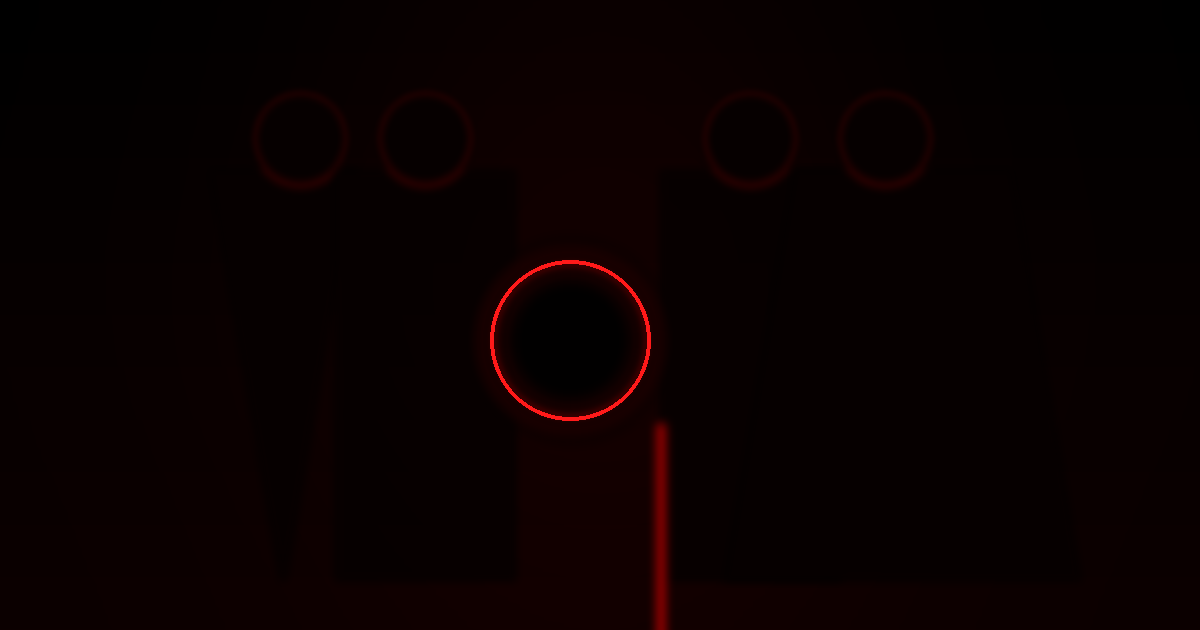
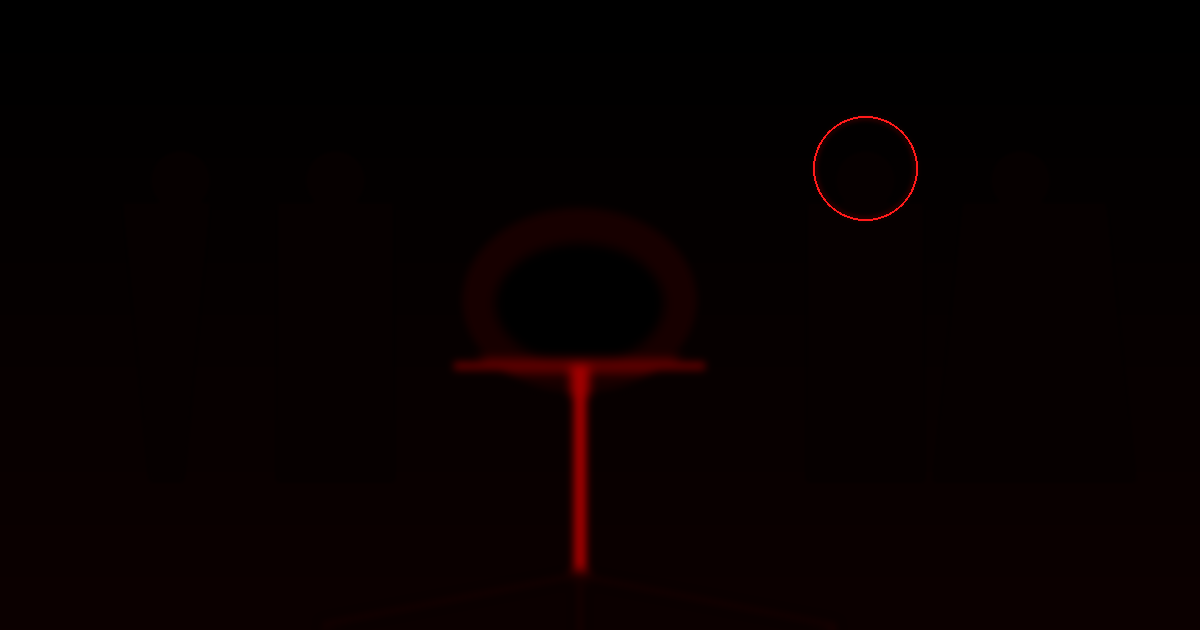
contract: RED FIELD Production Contract v1.0 + etalon post rewritten verbatim
- standards/red-field-production-contract.md: главный принцип «ноль публикаций
  лучше одной неподтверждённой», инварианты I1/I2/I3, текстовый контракт
  (headline 35-75, demo=1 предложение, explain<=2), DoD, тест «-80% художественного текста».
- publisher.py: машино-проверяемые правила контракта в concept_gate
  (HEADLINE_MIN/MAX, DEMO_MAX_SENTENCES, EXPLAIN_MAX_SENTENCES, _sentence_count;
  коды qa:headline_len/qa:demo_sent/qa:explain_sent трактуются как REJECT).
- feed/concepts.json kast-kharakterov: дословные формулировки владельца
  (headline про скорость выбора бренда, demo Edison Multi-Cast, consequence про проектирование).
- feed/items.csv: title синхронизирован с контрактным headline.
- feed/image_gen.py ветка 'тен': красное кольцо на ОДНОЙ тени (не на микрофоне),
  доминирующий микрофон с треногой; перегенерация --force (min hamming 23, >= threshold 23).

diff --git a/feed/image_gen.py b/feed/image_gen.py
@@ -462,40 +462,51 @@ def render_object(concept: dict, seed: int, attempt: int = 0):
         img.alpha_composite(g3.layer)
 
     elif 'тен' in obj:
-        # один микрофон + четыре тени-характера на стене (композиционная система:
-        # один объект, N вариаций; единственный красный акцент — кольцо микрофона)
-        red_glow_bg(img, W / 2, 300, 420, 300, ACTIVE_RED, 0.16)
-        # четыре тени-характера: строгая, улыбчивая, холодная, уверенная
-        for i, (ox, lean, tall) in enumerate(((-300, -35, 1.2), (-175, 0, 1.02),
-                                              (150, 0, 0.95), (285, 35, 1.3))):
+        # микрофон и четыре тени-характера (Production Contract v1.0):
+        # один главный объект (микрофон), четыре тени, отличающиеся ТОЛЬКО позой,
+        # одна окружена тонким красным кольцом (единственный красный акцент).
+        # Композиция: доминирующий микрофон с треногой в центре; тени — на краях.
+        # четыре тени: строгая, улыбчивая, холодная, уверенная (поза - единственная разница)
+        RING_IDX = 2  # тонкое красное кольцо - только вокруг одной тени (уверенная)
+        for i, (ox, lean) in enumerate(((-420, -28), (-265, 0), (265, 0), (420, 28))):
             sg = RGBA()
             gx = W / 2 + ox
-            top = 90
-            bot = 580
-            sx = gx - 90
-            ex = gx + 90 + lean
-            sg.polygon([(sx, top + 80), (ex, top + 80),
-                        (ex + lean * 2, bot), (sx - lean * 2, bot)], fill=SILH + (255,))
-            sg.ellipse(_obj_atom(gx - 48, top, 96, 96),
-                       fill=SILH + (255,), outline=SIGNAL_RED + (255,), width=3)
-            sg.blur(4).alpha(0.95)
+            top = 150
+            bot = 480
+            sx = gx - 58
+            ex = gx + 58 + lean
+            sg.polygon([(sx, top + 52), (ex, top + 52),
+                        (ex + lean, bot), (sx - lean, bot)], fill=SILH + (255,))
+            sg.ellipse(_obj_atom(gx - 30, top, 60, 60), fill=SILH + (255,))
+            sg.blur(2).alpha(0.95)
             img.alpha_composite(sg.layer)
-        # микрофон
+        # микрофон: главный доминирующий объект с треногой, БЕЗ красного акцента
         g = RGBA()
-        g.ellipse(_obj_atom(cx - 130, cy - 200, 200, 200), fill=DEEP_RED + (255,))
-        g.ellipse(_obj_atom(cx - 90, cy - 160, 120, 120), fill=VOID + (255,))
-        g.line([(cx + 60, cy - 20), (cx + 60, cy + 250)], ACTIVE_RED + (255,), width=16)
-        g.line([(cx + 60, cy + 250), (cx + 260, cy + 250)], DEEP_RED + (255,), width=18)
-        g.blur(6).alpha(0.95)
+        # колпак микрофона
+        g.ellipse(_obj_atom(cx - 120, cy - 220, 240, 190), fill=DEEP_RED + (255,))
+        g.ellipse(_obj_atom(cx - 84, cy - 182, 168, 120), fill=VOID + (255,))
+        # держатель (кольцо карданного подвеса, нейтральное)
+        g.line([(cx - 128, cy - 60), (cx + 128, cy - 60)], SIGNAL_RED + (255,), width=14)
+        # стойка
+        g.line([(cx, cy - 60), (cx, cy + 150)], ACTIVE_RED + (255,), width=18)
+        # тренога: три ноги от стойки к краям
+        g.line([(cx, cy + 150), (cx - 260, cy + 200)], DEEP_RED + (255,), width=12)
+        g.line([(cx, cy + 150), (cx + 260, cy + 200)], DEEP_RED + (255,), width=12)
+        g.line([(cx, cy + 150), (cx, cy + 230)], DEEP_RED + (255,), width=12)
+        g.blur(5).alpha(0.95)
         img.alpha_composite(g.layer)
-        # единственный красный акцент: кольцо на сетке микрофона
-        g2 = RGBA()
-        g2.ellipse(_obj_atom(cx - 110, cy - 180, 160, 160), outline=SIGNAL_RED + (255,), width=9)
-        g2.blur(4).alpha(0.8)
-        img.alpha_composite(g2.layer)
-        g2b = RGBA()
-        g2b.ellipse(_obj_atom(cx - 110, cy - 180, 160, 160), outline=HOT_RED + (255,), width=4)
-        img.alpha_composite(g2b.layer)
+        # единственный красный акцент: тонкое кольцо вокруг выбранной тени
+        ring_x = W / 2 + 265
+        ring_top = 150
+        rg = RGBA()
+        rg.ellipse(_obj_atom(ring_x - 52, ring_top - 34, 104, 104),
+                   outline=SIGNAL_RED + (255,), width=5)
+        rg.blur(3).alpha(0.85)
+        img.alpha_composite(rg.layer)
+        rgb = RGBA()
+        rgb.ellipse(_obj_atom(ring_x - 52, ring_top - 34, 104, 104),
+                    outline=HOT_RED + (255,), width=2)
+        img.alpha_composite(rgb.layer)
 
     elif 'микрофон' in obj or 'стойк' in obj:
         # стоечный микрофон: один красный акцент-кольцо

diff --git a/publisher.py b/publisher.py
@@ -104,6 +104,21 @@ def load_items():
 
 REQ_CONCEPT_FIELDS = ('headline', 'demo', 'explain', 'consequence', 'visual_object', 'cover_prompt')
 
+# RED FIELD · Production Contract v1.0 (standards/red-field-production-contract.md).
+# Машино-проверяемые правила текстового контракта. Правка без согласования с
+# контрактом невозможна: эти константы читаются concept_gate и REJECT-логом.
+HEADLINE_MIN = 35
+HEADLINE_MAX = 75
+DEMO_MAX_SENTENCES = 1   # demo = ровно одно предложение
+EXPLAIN_MAX_SENTENCES = 2  # explain = не больше двух предложений
+
+
+def _sentence_count(s: str) -> int:
+    """Count sentence-ending punctuation (., !, ?) in a non-empty string."""
+    if not s:
+        return 0
+    return sum(1 for ch in s if ch in '.!?…')
+
 
 def load_concepts():
     """Editorial concepts: guid -> {headline, demo, explain, consequence, visual_object, cover_prompt}."""
@@ -134,11 +149,28 @@ def source_resolves(link: str) -> bool:
 
 
 def concept_gate(guid: str, concepts: dict, link: str = ''):
-    """Return list of REQUIRED fields missing for guid (empty = publishable)."""
+    """Return list of FAIL reasons for guid (empty = publishable).
+
+    RED FIELD Production Contract v1.0 gates:
+      1. all REQ_CONCEPT_FIELDS present and non-empty;
+      2. source_resolves(link) = PASS;
+      3. machine-checkable text rules (headline length, sentence counts).
+    """
     c = concepts.get(guid) or {}
     missing = [k for k in REQ_CONCEPT_FIELDS if not (c.get(k) or '').strip()]
     if not missing and not source_resolves(link):
         missing.append('source')
+    if not missing:
+        hl = (c.get('headline') or '').strip()
+        ln = len(hl)
+        if ln < HEADLINE_MIN or ln > HEADLINE_MAX:
+            missing.append('qa:headline_len={}'.format(ln))
+        d = _sentence_count((c.get('demo') or '').strip())
+        if d != DEMO_MAX_SENTENCES:
+            missing.append('qa:demo_sent={}'.format(d))
+        e = _sentence_count((c.get('explain') or '').strip())
+        if e > EXPLAIN_MAX_SENTENCES:
+            missing.append('qa:explain_sent={}'.format(e))
     return missing
 
 

diff --git a/standards/red-field-production-contract.md b/standards/red-field-production-contract.md
@@ -1,0 +1,184 @@
+# RED FIELD · Production Contract v1.0
+
+> Мы публикуем не новости. Мы публикуем моменты, когда карта реальности меняется.
+
+Это контракт редакции. Документ, после которого любой агент (OpenCode) однозначно понимает:
+что считается публикацией, а что — нет. Любое отклонение от контракта = не публикация.
+
+## Главный принцип
+
+**Ноль публикаций лучше одной неподтверждённой.**
+
+Любой пост должен пережить потерю красивых слов. Если после удаления эпитетов остаётся
+наблюдаемый факт — публикация имеет право жить.
+
+---
+
+## Инварианты (ломать нельзя)
+
+### I1. Source First
+
+Каждое утверждение опирается на существующий документ.
+
+- `source_resolves()` = PASS.
+- GitHub `blob` обязан существовать локально (`repo/blob/<ref>/<path>` → `REPO/<path>`, `os.path.isfile()`).
+- Внешняя ссылка должна быть действительно открываемой.
+- Если источник исчез — пост не выходит.
+
+Запрещено: «Система показала…» без документа, который можно открыть.
+
+### I2. Demonstration First
+
+Первое предложение обязано показать факт.
+
+Не вывод. Не мораль. Не интерпретацию.
+
+Формула: **Демонстрация → Объяснение → Следствие**.
+
+### I3. Object Survives
+
+После публикации должен остаться один предмет памяти.
+
+Не настроение. Не идея. **Предмет.**
+
+Примеры: четыре тени; микрофон; отпечаток; кольцо; карта; дверь.
+
+Если после просмотра обложки нельзя назвать объект — обложка провалена.
+
+---
+
+## Формат публикации
+
+Каждый концепт обязан содержать ровно эти поля:
+
+| Поле | Обязательно |
+| --- | --- |
+| `headline` | ✅ |
+| `demo` | ✅ |
+| `explain` | ✅ |
+| `consequence` | ✅ |
+| `visual_object` | ✅ |
+| `cover_prompt` | ✅ |
+| `source` | ✅ |
+
+Любое отсутствующее поле = отказ. Поле `source` хранится в строке фида (`src`), гейт — `source_resolves()`.
+
+---
+
+## Текстовый контракт
+
+### Headline
+
+- 35–75 символов.
+- Запрещено: вопросительные заголовки; кликбейт; оценочные прилагательные без основания.
+
+### Demo
+
+Первая строка отвечает на вопрос «Что реально произошло?».
+
+Одно предложение. Без вывода.
+
+### Explain
+
+Что изменилось. Не больше двух предложений.
+
+### Consequence
+
+Ответ на вопрос «Почему через неделю это всё ещё будет иметь значение?».
+
+Если ответ пустой — публикация отклоняется.
+
+---
+
+## Обложка
+
+RED FIELD остаётся стилем. Но каждая обложка обязана быть уникальной.
+
+### Обязательные элементы
+
+- один главный объект;
+- один красный акцент;
+- одна доминирующая форма.
+
+### Запрещено
+
+- повтор одинаковой композиции;
+- абстрактный красный градиент без объекта;
+- текст на изображении.
+
+Обложка должна быть узнаваема даже в размере аватара Telegram.
+
+---
+
+## Editorial QA
+
+### PASS
+
+- источник существует;
+- демонстрация наблюдаема;
+- объект уникален;
+- следствие меняет понимание.
+
+### FAIL
+
+Публикация убивается автоматически, если:
+
+- источник не открывается;
+- факт нельзя показать;
+- текст остаётся понятным только благодаря красивым словам;
+- обложка не имеет собственного объекта.
+
+---
+
+## Машино-проверяемые правила (реализованы в `publisher.py`)
+
+В `concept_gate()` к отказу добавляются коды:
+
+| Код | Правило |
+| --- | --- |
+| `qa:headline_len=n` | `n` вне диапазона 35–75 |
+| `qa:demo_sent=n` | demo не одно предложение |
+| `qa:explain_sent=n` | explain больше двух предложений |
+
+Список правил живёт рядом с `REQ_CONCEPT_FIELDS` и является частью контракта:
+правка без согласования с контрактом невозможна.
+
+---
+
+## Первая эталонная публикация
+
+- **Headline**: Бренд выбирают быстрее, чем успевают услышать весь голос.
+- **Demo**: В слепом тесте Edison Multi-Cast более тысячи слушателей чаще предпочитали
+  распределённый каст ролей одному универсальному голосу.
+- **Explain**: Разница оказалась не в тембре, а в распределении функций: приветствие,
+  объяснение, доверие и действие работают как разные роли.
+- **Consequence**: Если голос начинает делиться на роли, бренд перестаёт выбирать
+  «идеальный голос» и начинает проектировать собственное поведение.
+- **Visual Object**: Микрофон и четыре тени. Каждая тень отличается только позой.
+  Одна окружена тонким красным кольцом.
+- **Cover Prompt**: Black field. One studio microphone in the center. Four human
+  silhouettes cast different shadows around it. One shadow is marked by a thin red
+  ring. No text. High contrast. Quiet tension. Editorial photography, not illustration.
+
+---
+
+## Definition of Done
+
+Пост считается существующим только если одновременно выполнено всё:
+
+- `source_resolves()` = PASS;
+- все 6 полей концепта заполнены (`source` — через `src` фида);
+- обложка содержит уникальный объект;
+- первый абзац начинается с наблюдаемого факта;
+- следствие отвечает на вопрос «что теперь изменилось»;
+- текст можно проверить по исходному документу.
+
+---
+
+## Самое важное изменение
+
+> **Любая публикация должна потерять 80% художественного текста и всё равно остаться сильной.**
+
+Это очень жёсткий тест. Если убрать все красивые формулировки, а публикация всё ещё
+сообщает новое знание — значит, канал фиксирует моменты, когда меняется карта реальности,
+а не украшает новости.
